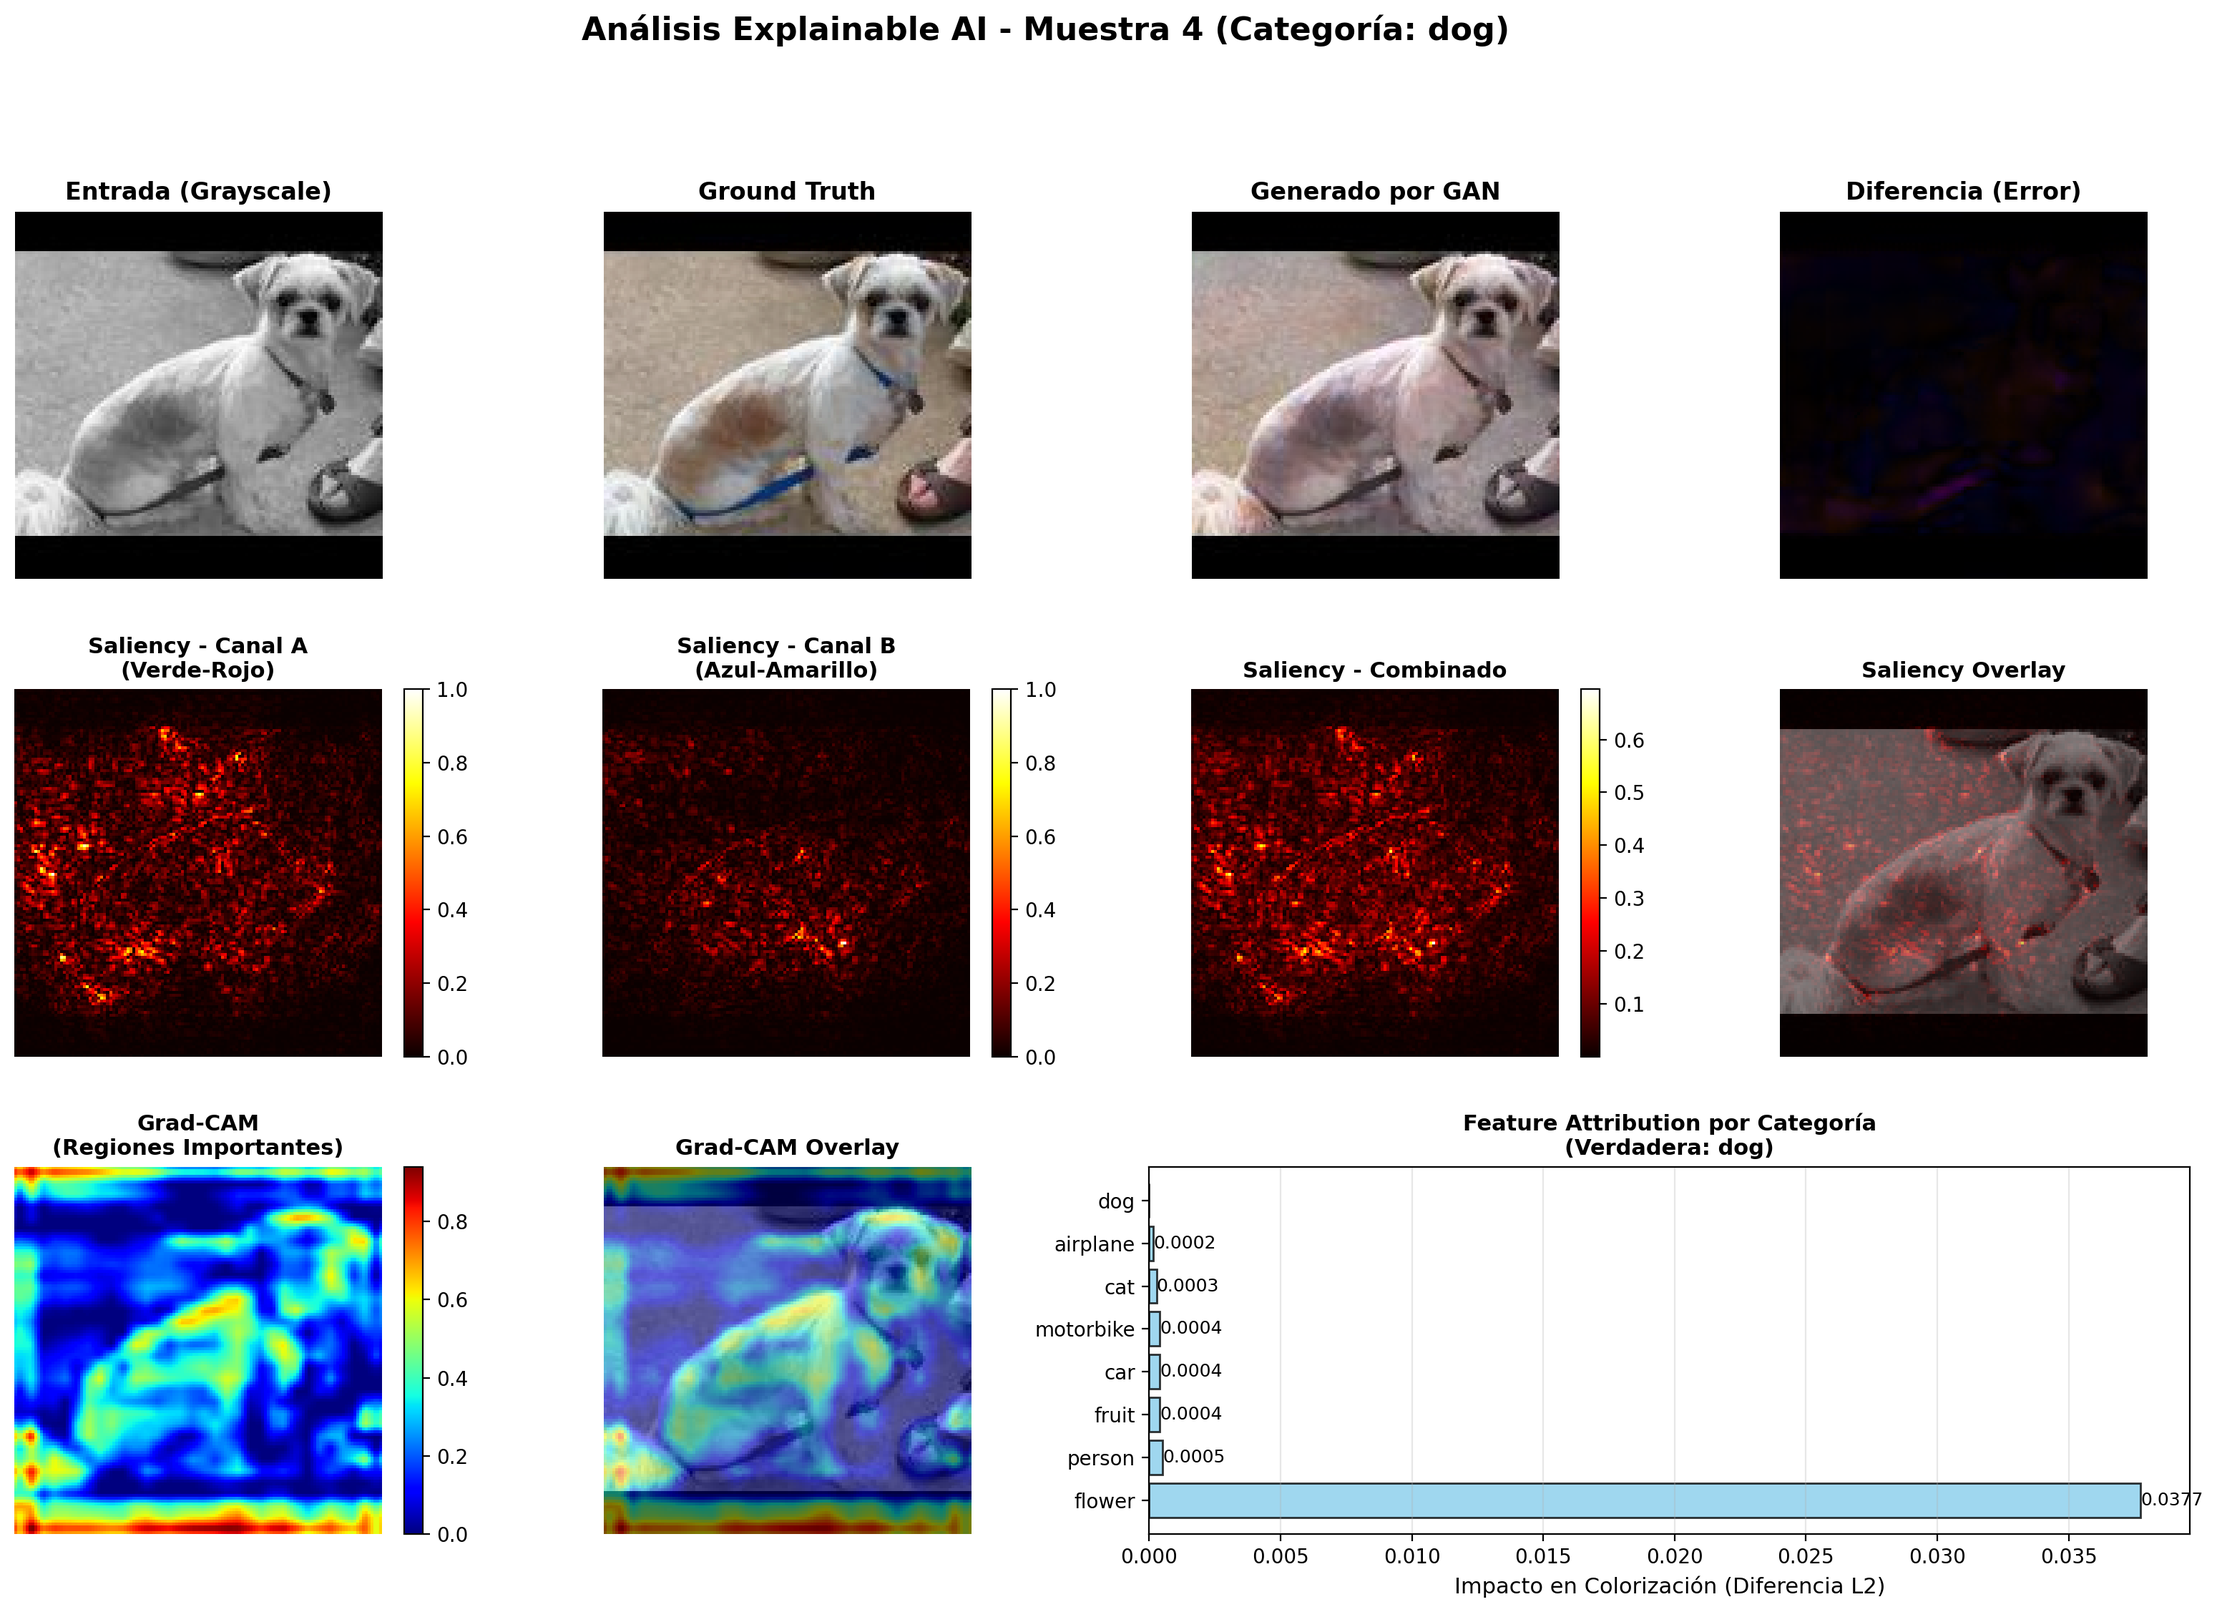
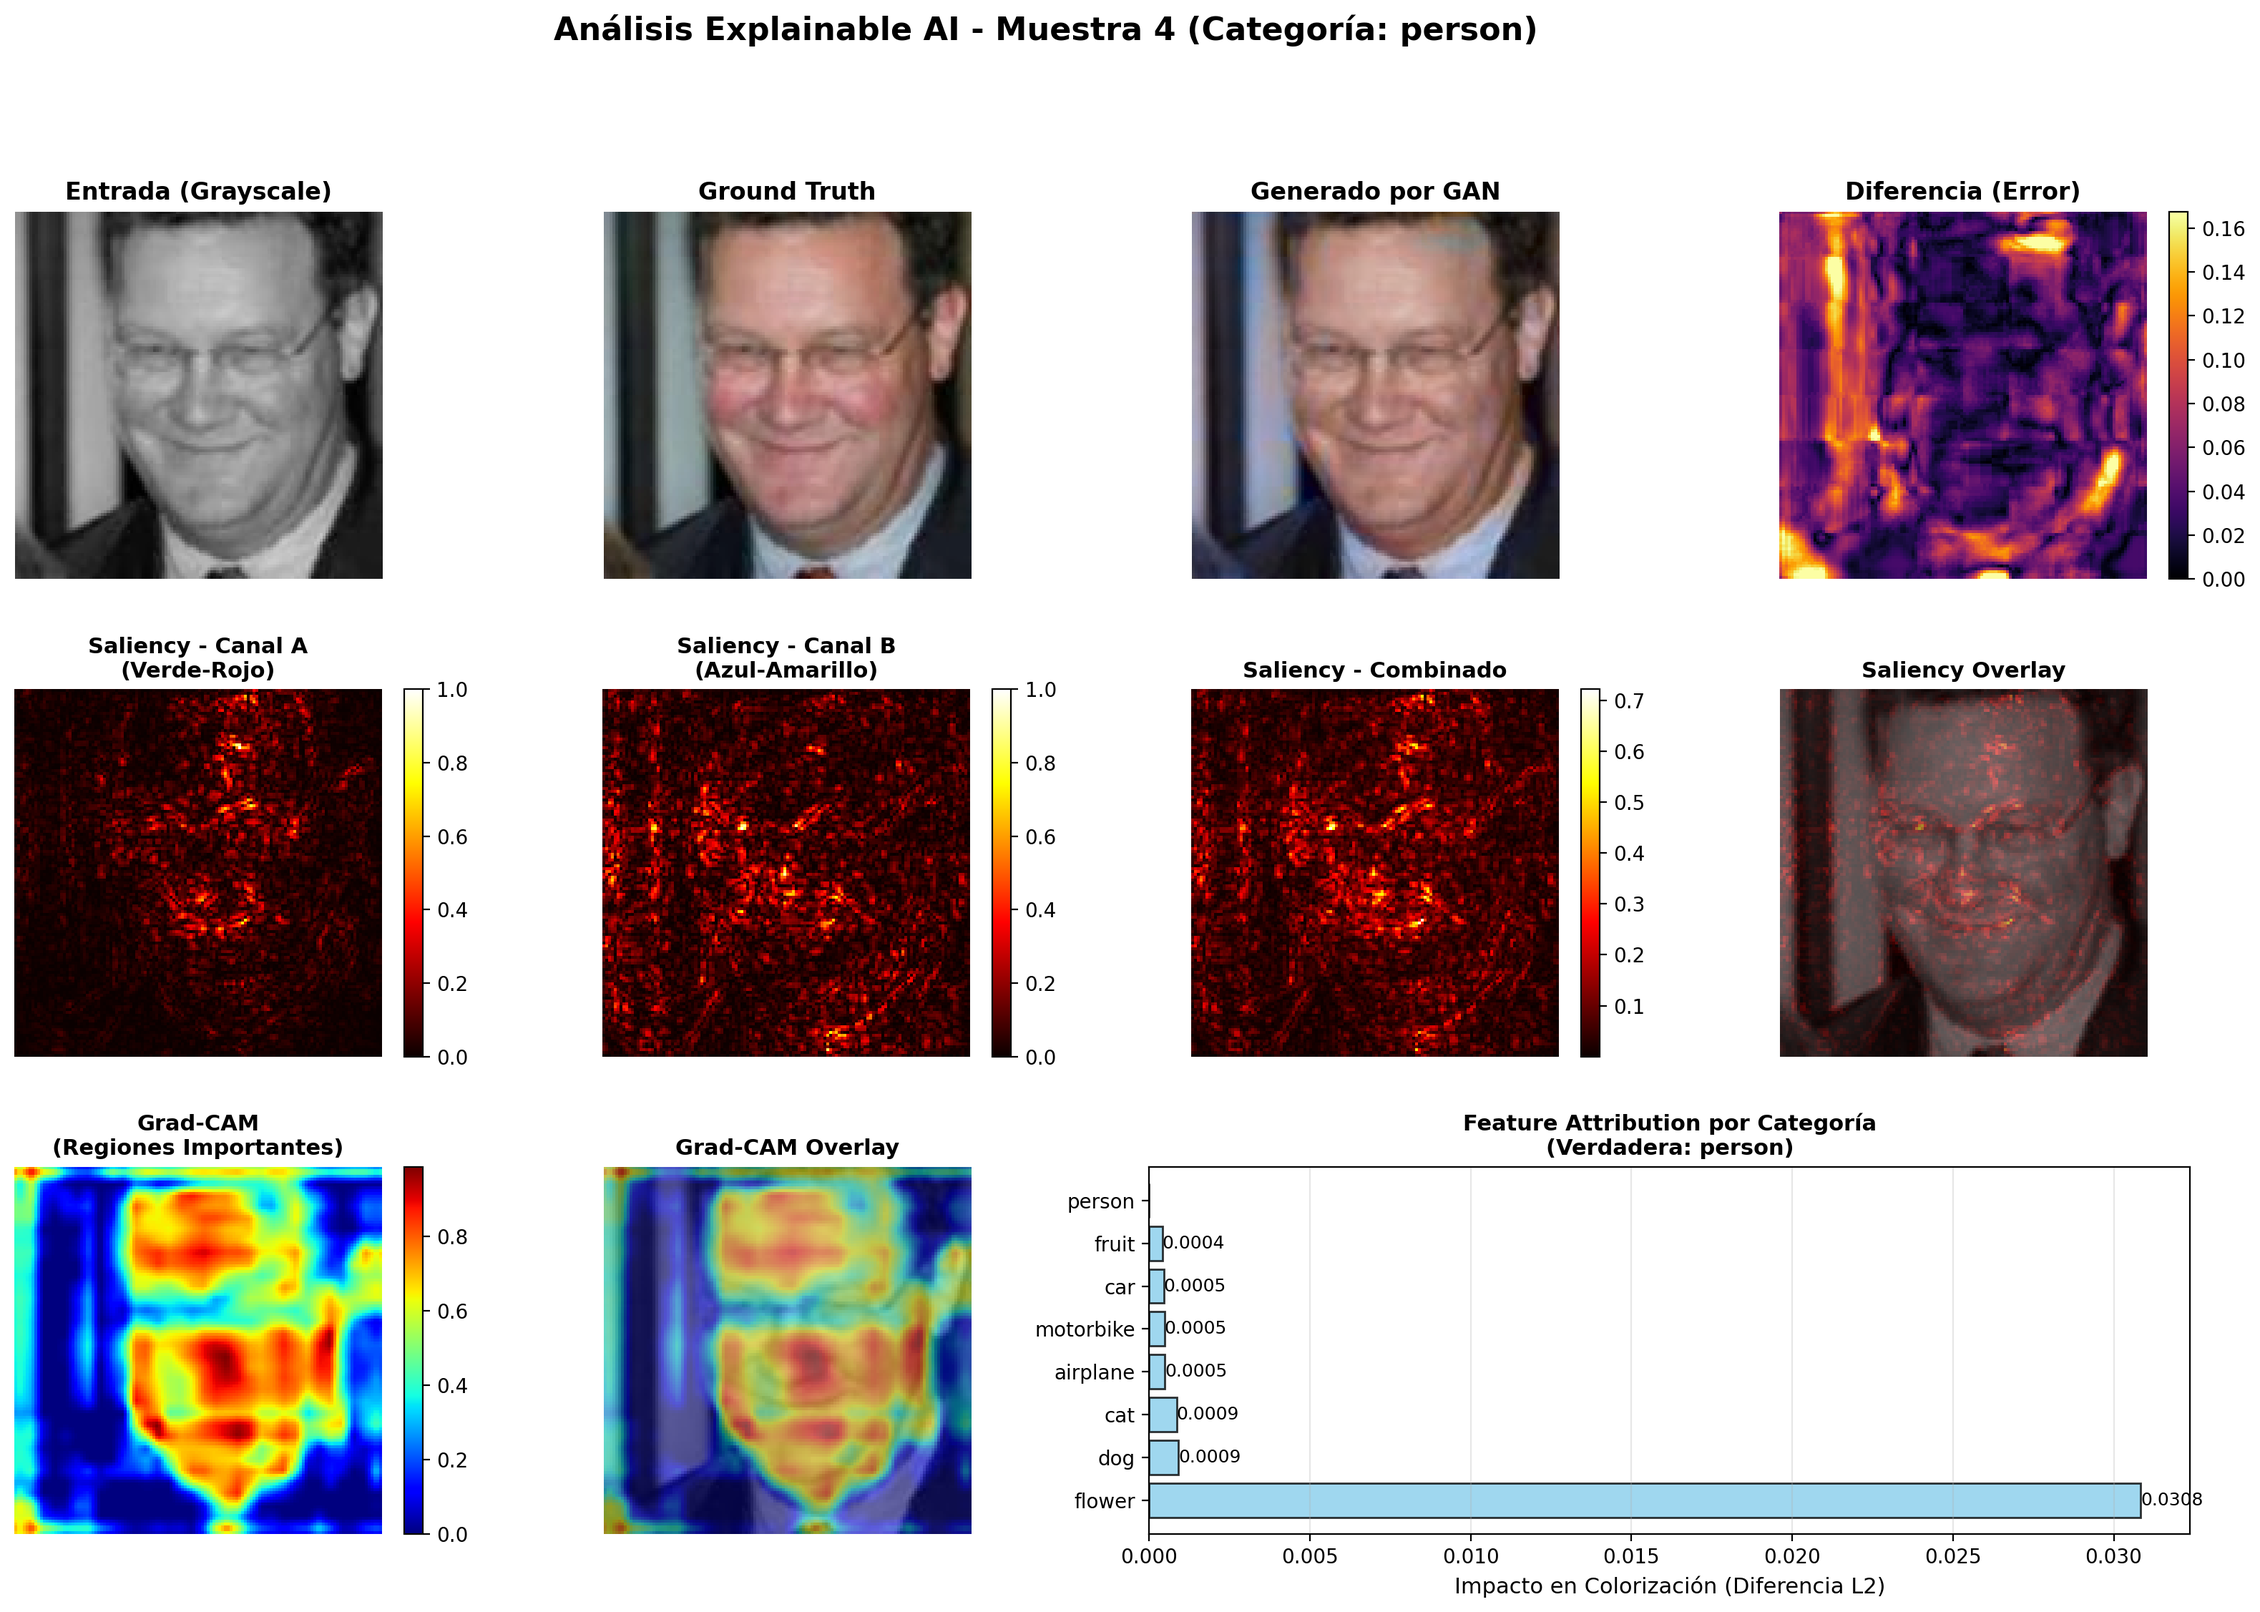
Feat: Fix en Explainable AI Diferencia

diff --git a/Explainable_AI.py b/Explainable_AI.py
@@ -281,8 +281,13 @@ class XAIVisualizer:
         ax1 = fig.add_subplot(gs[0, 0]); ax1.imshow(gray_img); ax1.set_title('Entrada (Grayscale)', fontsize=12, fontweight='bold'); ax1.axis('off')
         ax2 = fig.add_subplot(gs[0, 1]); ax2.imshow(real_rgb); ax2.set_title('Ground Truth', fontsize=12, fontweight='bold'); ax2.axis('off')
         ax3 = fig.add_subplot(gs[0, 2]); ax3.imshow(pred_rgb); ax3.set_title('Generado por GAN', fontsize=12, fontweight='bold'); ax3.axis('off')
-        ax4 = fig.add_subplot(gs[0, 3]); diff = np.abs(real_rgb - pred_rgb); ax4.imshow(diff); ax4.set_title('Diferencia (Error)', fontsize=12, fontweight='bold'); ax4.axis('off')
-
+        ax4 = fig.add_subplot(gs[0, 3])
+        diff = np.linalg.norm(real_rgb - pred_rgb, axis=2)  # L2 por píxel
+        vmax = np.percentile(diff, 99)
+        im4  = ax4.imshow(diff, vmin=0, vmax=max(vmax, 1e-3), cmap='inferno')
+        ax4.set_title('Diferencia (Error)', fontsize=12, fontweight='bold')
+        ax4.axis('off')
+        plt.colorbar(im4, ax=ax4, fraction=0.046)
         # Fila 2: Saliency
         ax5 = fig.add_subplot(gs[1, 0]); im5 = ax5.imshow(saliency_maps['channel_a'], cmap='hot'); ax5.set_title('Saliency - Canal A\n(Verde-Rojo)', fontsize=11, fontweight='bold'); ax5.axis('off'); plt.colorbar(im5, ax=ax5, fraction=0.046)
         ax6 = fig.add_subplot(gs[1, 1]); im6 = ax6.imshow(saliency_maps['channel_b'], cmap='hot'); ax6.set_title('Saliency - Canal B\n(Azul-Amarillo)', fontsize=11, fontweight='bold'); ax6.axis('off'); plt.colorbar(im6, ax=ax6, fraction=0.046)
